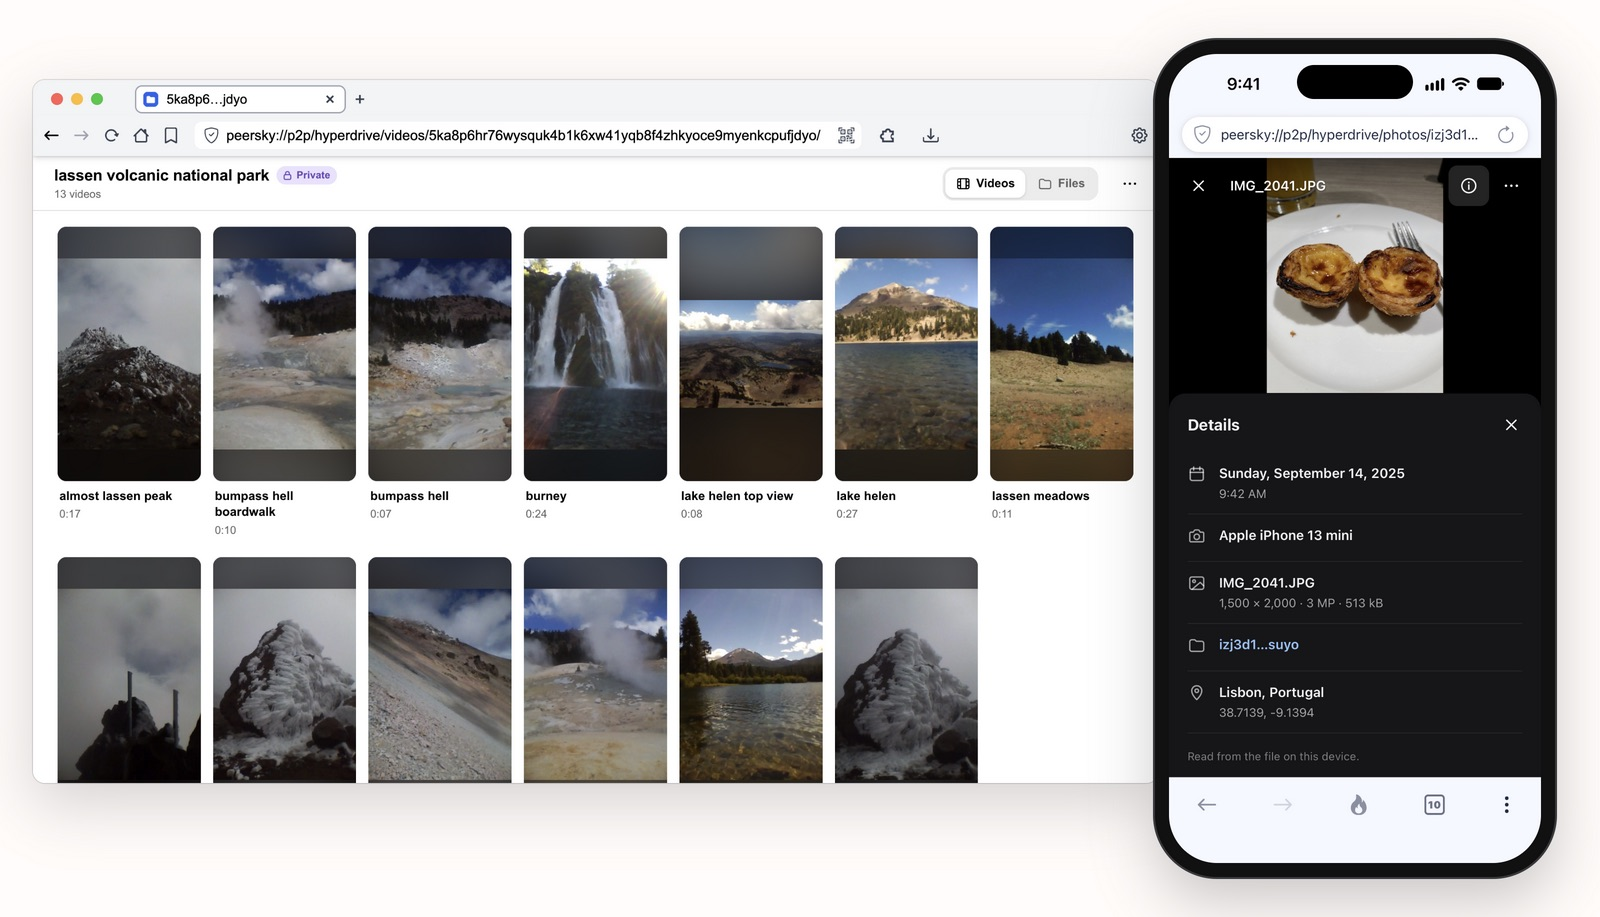
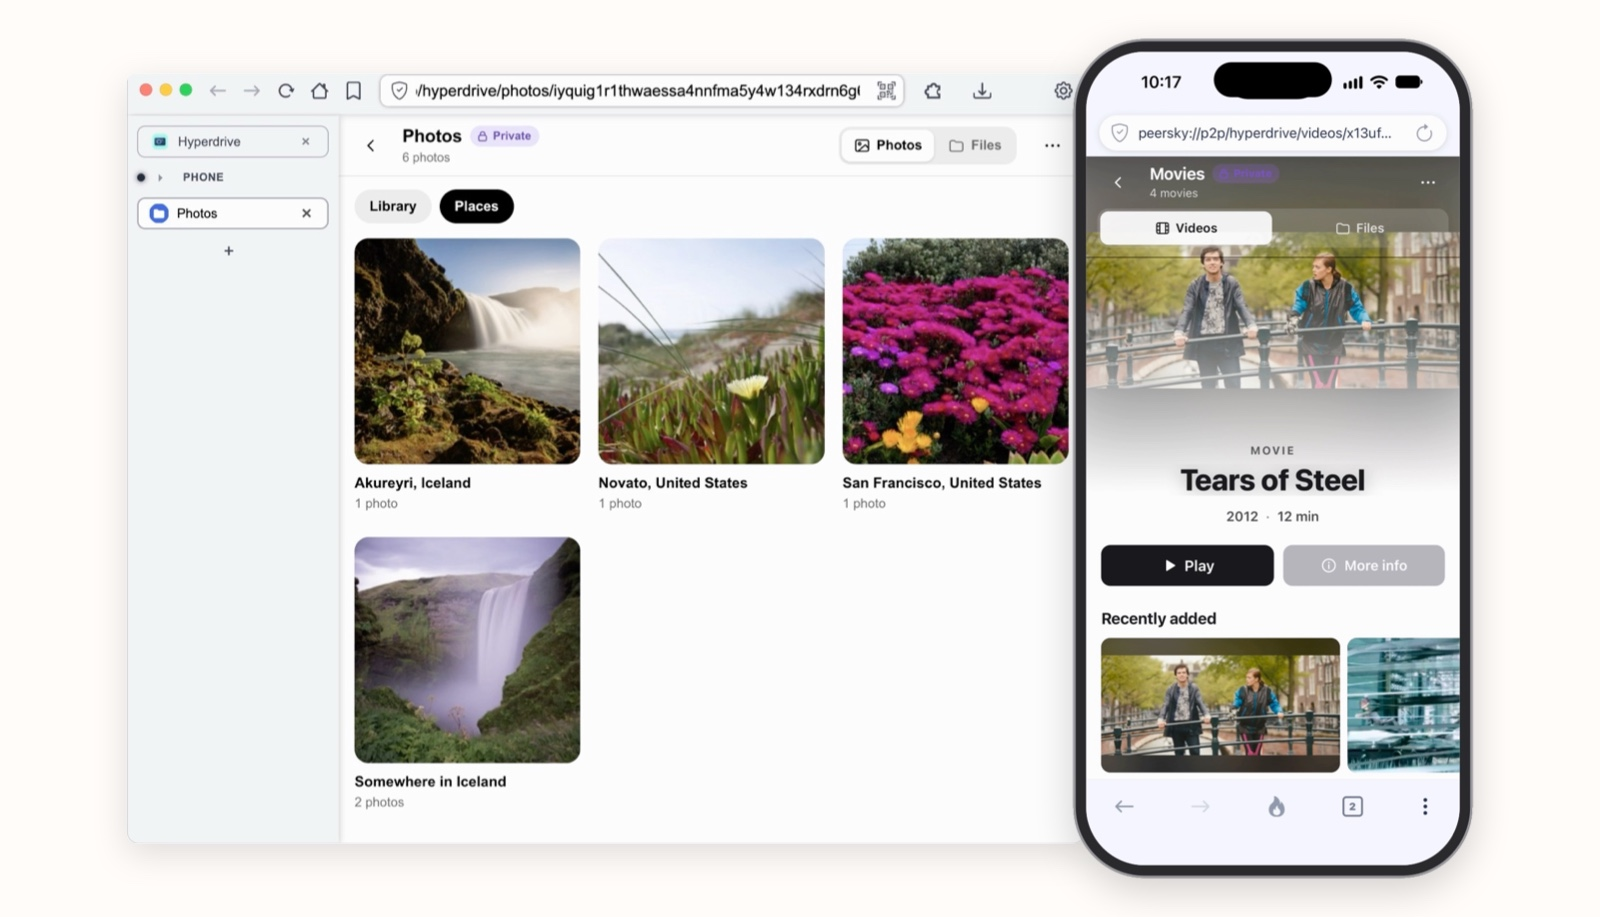
docs(blog): the private cloud post's photos and videos picture is from the short, the phone's photos by place on the laptop and the laptop's movies on the phone

diff --git a/blog/spare-device-private-cloud/index.html b/blog/spare-device-private-cloud/index.html
@@ -147,8 +147,8 @@
         <h2>Photos and videos, not a list of files</h2>
         <p>A folder you save in Hyperdrive doesn't open as a plain list of names. PeerSky looks at what's inside and picks a view: Photos for pictures, Videos for videos, and Files for everything else. You can switch between them at the top of the page.</p>
         <figure>
-          <img src="./views.jpg" width="1600" height="917" loading="lazy" alt="On the laptop, a private folder of 13 videos from Lassen Volcanic National Park open in Videos. On the phone, a photo of two pastéis de nata with its details: Sunday, September 14, 2025, an iPhone 13 mini, Lisbon, Portugal." />
-          <figcaption>A private folder of hiking videos on the laptop, and where a photo was taken on the phone.</figcaption>
+          <img src="./views.jpg" width="1600" height="917" loading="lazy" alt="On the laptop, the phone's private Photos folder open in Places: Akureyri, Iceland; Novato, United States; San Francisco, United States; and Somewhere in Iceland. On the phone, the laptop's private Movies folder open in Videos, with Tears of Steel at the top and Recently added below." />
+          <figcaption>The phone's photos on the laptop, by place, and the laptop's movies on the phone. Tears of Steel and Elephants Dream are by the Blender Foundation, CC BY.</figcaption>
         </figure>
         <p>Videos shows a frame from each video and how long it runs, plays it right there, and picks up where you stopped. Photos lays your pictures out by the day they were taken and puts them together by place. Open a photo and tap the i button to see when it was taken, on which camera, and where.</p>
         <p>That place doesn't come from a map service. When your phone takes a photo, it writes the date, the camera and the GPS position into the file. PeerSky reads them on your device and finds the nearest city in a list of about 30,000 that comes with the app, so nobody is asked where you were. For a private folder, the previews and everything else it works out stay in memory and are never saved to disk.</p>
